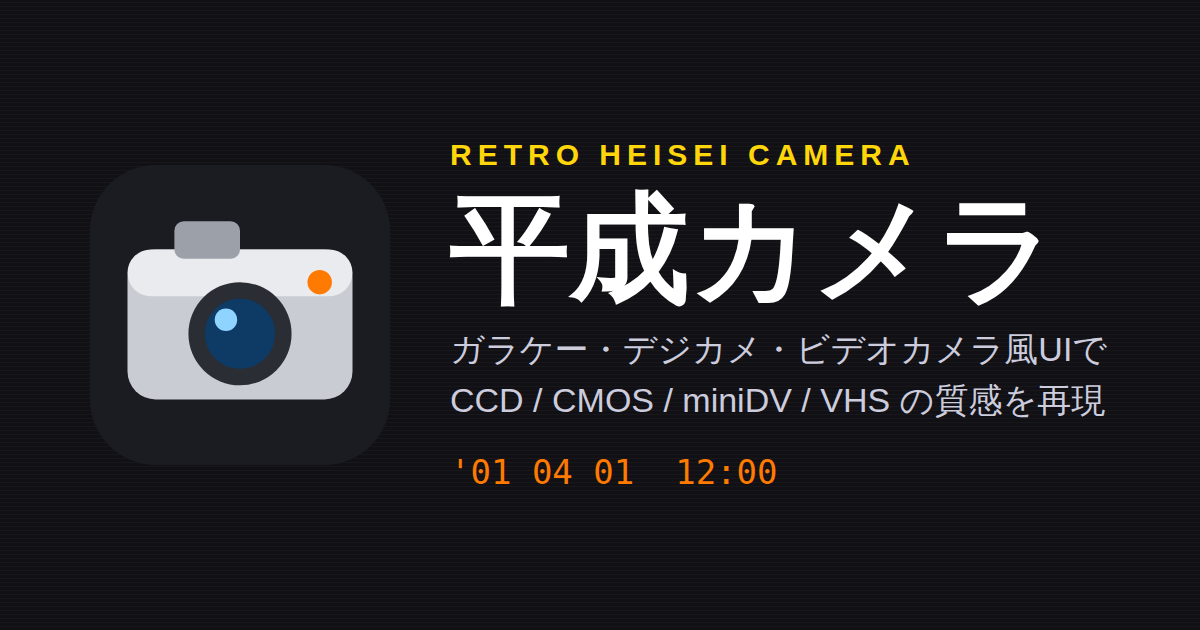
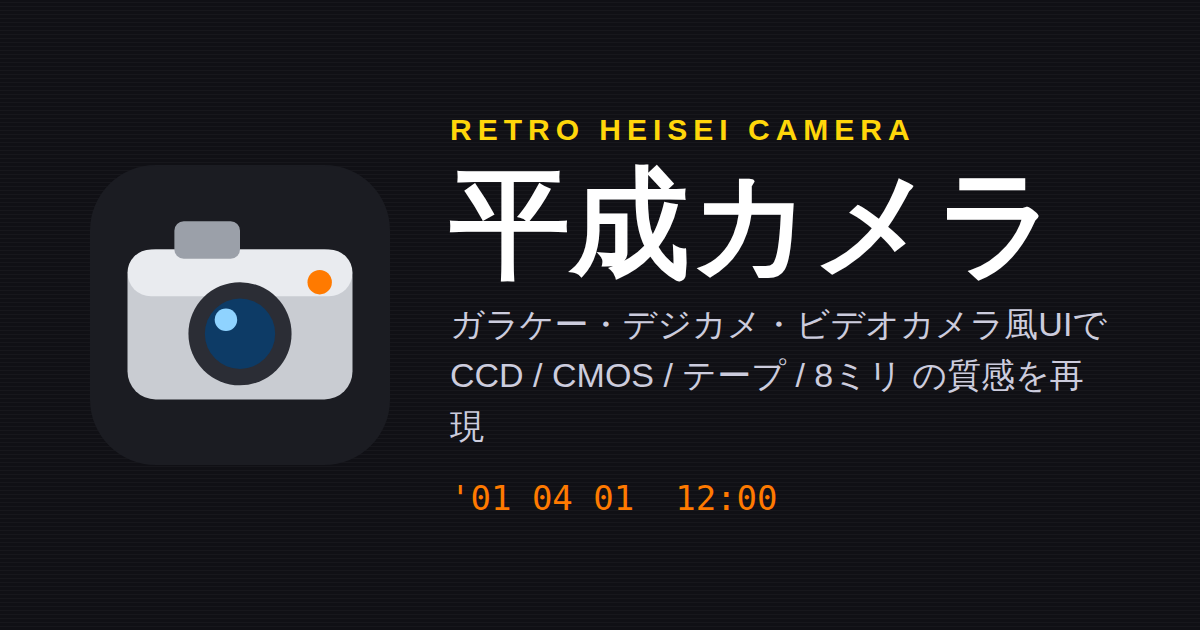
規格・商標に近い名称を一般的な呼び名に変更 (v3.0.2) (#4)
Claude-Session: https://claude.ai/code/session_01LxmgezsTNbVswLk6y5BKSK

Changed region(s): [[0.37, 0.181, 0.925, 0.6937], [0.37, 0.7238, 0.5242, 0.8143], [0.555, 0.7238, 0.6475, 0.8143]]

diff --git a/index.html b/index.html
@@ -4,9 +4,9 @@
 <meta charset="UTF-8">
 <meta name="viewport" content="width=device-width,initial-scale=1,viewport-fit=cover,user-scalable=no">
 <meta name="theme-color" content="#000000">
-<title>平成カメラ | ガラケー・デジカメ・VHS風のレトロカメラ(CCD/CMOS/miniDV再現)</title>
-<meta name="description" content="平成カメラは、ガラケー・コンデジ・ビデオカメラ風UIで、CCD・CMOSセンサーやminiDV・VHS・8ミリの質感を再現するブラウザ向けレトロカメラ。シャッター音や日付写し込み、テープ風ノイズ録音にも対応。インストール不要、無料。">
-<meta name="keywords" content="平成カメラ,レトロカメラ,ガラケー,デジカメ,CCD,CMOS,miniDV,VHS,8ミリ,エモい,写ルンです風,平成レトロ,Y2K">
+<title>平成カメラ | ガラケー・デジカメ・ビデオテープ風のレトロカメラ(CCD/CMOS再現)</title>
+<meta name="description" content="平成カメラは、ガラケー・コンデジ・ビデオカメラ風UIで、CCD・CMOSセンサーやデジタルテープ・アナログテープ・8ミリフィルムの質感を再現するブラウザ向けレトロカメラ。シャッター音や日付写し込み、テープ風ノイズ録音にも対応。インストール不要、無料。">
+<meta name="keywords" content="平成カメラ,レトロカメラ,ガラケー,デジカメ,CCD,CMOS,ビデオテープ,8ミリ,エモい,平成レトロ,Y2K">
 <meta name="author" content="higashiikenaga">
 <meta name="robots" content="index,follow,max-image-preview:large">
 <link rel="canonical" href="https://higashiikenaga.github.io/heisei_camera/">
@@ -24,8 +24,8 @@
 <!-- OGP -->
 <meta property="og:type" content="website">
 <meta property="og:site_name" content="平成カメラ">
-<meta property="og:title" content="平成カメラ | ガラケー・デジカメ・VHS風のレトロカメラ">
-<meta property="og:description" content="CCD・CMOS・miniDV・VHS・8ミリの質感を再現。ガラケー/デジカメ/ビデオカメラ風UIで撮れるブラウザ向けレトロカメラ。">
+<meta property="og:title" content="平成カメラ | ガラケー・デジカメ・ビデオテープ風のレトロカメラ">
+<meta property="og:description" content="CCD・CMOS・デジタルテープ・アナログテープ・8ミリフィルムの質感を再現。ガラケー/デジカメ/ビデオカメラ風UIで撮れるブラウザ向けレトロカメラ。">
 <meta property="og:url" content="https://higashiikenaga.github.io/heisei_camera/">
 <meta property="og:image" content="https://higashiikenaga.github.io/heisei_camera/og-image.png">
 <meta property="og:image:width" content="1200">
@@ -33,12 +33,12 @@
 <meta property="og:image:alt" content="平成カメラ ロゴとキャッチコピー">
 <meta property="og:locale" content="ja_JP">
 <meta name="twitter:card" content="summary_large_image">
-<meta name="twitter:title" content="平成カメラ | ガラケー・デジカメ・VHS風のレトロカメラ">
-<meta name="twitter:description" content="CCD・CMOS・miniDV・VHS・8ミリの質感を再現するブラウザ向けレトロカメラ。">
+<meta name="twitter:title" content="平成カメラ | ガラケー・デジカメ・ビデオテープ風のレトロカメラ">
+<meta name="twitter:description" content="CCD・CMOS・テープ・8ミリフィルムの質感を再現するブラウザ向けレトロカメラ。">
 <meta name="twitter:image" content="https://higashiikenaga.github.io/heisei_camera/og-image.png">
 
 <script type="application/ld+json">
-{"@context":"https://schema.org","@type":"WebApplication","name":"平成カメラ","url":"https://higashiikenaga.github.io/heisei_camera/","description":"ガラケー・デジカメ・ビデオカメラ風UIでCCD/CMOS/miniDV/VHSの質感を再現するブラウザ向けレトロカメラ","applicationCategory":"MultimediaApplication","operatingSystem":"Any (Web browser)","inLanguage":"ja","image":"https://higashiikenaga.github.io/heisei_camera/og-image.png","offers":{"@type":"Offer","price":"0","priceCurrency":"JPY"},"author":{"@type":"Person","name":"higashiikenaga","url":"https://github.com/higashiikenaga"}}
+{"@context":"https://schema.org","@type":"WebApplication","name":"平成カメラ","url":"https://higashiikenaga.github.io/heisei_camera/","description":"ガラケー・デジカメ・ビデオカメラ風UIでCCD/CMOS/テープ/8ミリの質感を再現するブラウザ向けレトロカメラ","applicationCategory":"MultimediaApplication","operatingSystem":"Any (Web browser)","inLanguage":"ja","image":"https://higashiikenaga.github.io/heisei_camera/og-image.png","offers":{"@type":"Offer","price":"0","priceCurrency":"JPY"},"author":{"@type":"Person","name":"higashiikenaga","url":"https://github.com/higashiikenaga"}}
 </script>
 <link href="https://fonts.googleapis.com/css2?family=Orbitron:wght@400;700&family=Press+Start+2P&display=swap" rel="stylesheet">
 
@@ -297,8 +297,8 @@ body.recording #dpad #shutterG{background:var(--rec);}
       <optgroup label="デジカメ・ビデオカメラ風">
         <option value="c1">デジカメ シルバー</option>
         <option value="c2">デジカメ ブラック</option>
-        <option value="v1">ビデオカメラ miniDV</option>
-        <option value="v2">ビデオカメラ VHS-C</option>
+        <option value="v1">ビデオカメラ デジタルテープ</option>
+        <option value="v2">ビデオカメラ アナログテープ</option>
       </optgroup>
     </select></div>
   <div class="set"><span>ノイズ・劣化量</span><input type="range" id="tape" min="0" max="100" value="45"></div>
@@ -331,9 +331,9 @@ const low=document.createElement("canvas"),lctx=low.getContext("2d",{willReadFre
 const LOOKS={
   ccd:{name:"CCD",label:"CCD コンデジ(2002)",fps:24},
   cmos:{name:"CMOS",label:"CMOS ケータイ(2008)",fps:24},
-  "8mm":{name:"8mm",label:"8ミリビデオ",fps:12},
-  vhs:{name:"VHS",label:"VHS ホームビデオ",fps:15},
-  dv:{name:"miniDV",label:"miniDV ハンディカム",fps:30,hiss:.35}
+  "8mm":{name:"8ミリ風",label:"8ミリフィルム風",fps:12},
+  vhs:{name:"アナログテープ",label:"アナログテープ(ホームビデオ風)",fps:15},
+  dv:{name:"デジタルテープ",label:"デジタルテープ(ハンディ型風)",fps:30,hiss:.35}
 };
 LOOKS.ccd.hiss=.5;LOOKS.cmos.hiss=.4;LOOKS["8mm"].hiss=1.2;LOOKS.vhs.hiss=1;
 let look="ccd",kind="photo",facing="environment",zoom=1,recording=false;
@@ -432,7 +432,7 @@ let prevCol=null,smear=null,skew=0,vigTab=null;
 window.addEventListener("resize",fitCanvas);
 if(window.ResizeObserver)new ResizeObserver(()=>fitCanvas()).observe($("vf"));
 
-/* ================= miniDV : WebGL シェーダー ================= */
+/* ================= デジタルテープ風 : WebGL シェーダー ================= */
 // 4:2:0 クロマサブサンプリング(2x2で色を共有)＋横方向の色にじみ＋DCTブロック風の量子化、
 // さらに数フレームだけ発生するデジタルバグ(マクロブロック欠落/固着/色ズレ)。
 const DV_VS=`attribute vec2 p;varying vec2 v;void main(){v=p*.5+.5;gl_Position=vec4(p,0.,1.);}`;
@@ -831,8 +831,8 @@ const SKINS={
   g3:{k:"g",look:"cmos",brand:"✦ HEISEI ✦ pretty cam"},
   c1:{k:"c",look:"ccd",brand:"HEISEI DIGITAL  3.2 MEGA PIXELS"},
   c2:{k:"c",look:"ccd",brand:"HEISEI ZOOM 10x  5.0MP"},
-  v1:{k:"v",look:"dv",brand:"HEISEI miniDV  DIGITAL VIDEO"},
-  v2:{k:"v",look:"vhs",brand:"HEISEI VHS-C  CAMCORDER"}
+  v1:{k:"v",look:"dv",brand:"HEISEI DIGITAL TAPE CAM"},
+  v2:{k:"v",look:"vhs",brand:"HEISEI ANALOG TAPE CAM"}
 };
 let skin="g1";
 const looksEl=$("looks");
@@ -938,20 +938,21 @@ function openPreview(){
 $("pvClose").onclick=()=>{$("preview").classList.remove("open");$("pvBody").innerHTML="";};
 
 /* ================= 情報・更新履歴 ================= */
-const APP_VERSION="3.0.1";
+const APP_VERSION="3.0.2";
 const CONTACT={
   github:"https://github.com/higashiikenaga/heisei_camera",
   githubLabel:"github.com/higashiikenaga/heisei_camera",
   email:"sanyokai05@gmail.com"
 };
 const HISTORY=[
+  ["3.0.2","2026-10-03","特定の規格・商標に近い名称を「デジタルテープ」「アナログテープ」などの一般的な呼び名に変更"],
   ["3.0.1","2026-10-03","OGP・SEO設定、ファビコン、PWAマニフェストを追加(SNSでリンクを共有したときのプレビュー画像に対応)"],
-  ["3.0.0","2026-10-03","よく考えたら平成カメラなのに令和の最新スマートフォン風デザインはおかしいので、デザインを刷新。ガラケー風(ブラック折りたたみ/シルバー/ピンク)3種と、デジカメ(シルバー/ブラック)・ビデオカメラ(miniDV/VHS-C)風4種の計7種から選べるように(設定→デザイン)。十字キー・テンキーでの操作、PCのキーボード操作にも対応"],
+  ["3.0.0","2026-10-03","よく考えたら平成カメラなのに令和の最新スマートフォン風デザインはおかしいので、デザインを刷新。ガラケー風(ブラック折りたたみ/シルバー/ピンク)3種と、デジカメ(シルバー/ブラック)・ビデオカメラ(デジタルテープ/アナログテープ)風4種の計7種から選べるように(設定→デザイン)。十字キー・テンキーでの操作、PCのキーボード操作にも対応"],
   ["2.3.0","2026-10-03","「全画面」比率を追加し、縦長スマホ(自動選択)やPCの横長画面にぴったり合うように。PCではウィンドウいっぱいに表示。更新履歴に日付を追加"],
   ["2.2.0","2026-10-03","撮影比率(16:9 / 4:3 / 1:1)を選べるように。カメラ映像をほぼ全画面で表示するUIに刷新。作者メールアドレスを追加"],
-  ["2.1.0","2026-10-03","miniDVルック(WebGLシェーダーによる4:2:0風の色にじみ)、数フレームだけ出るデジタルバグ(ブロックノイズ)、録音へのテープ風ホワイトノイズ合成を追加"],
+  ["2.1.0","2026-10-03","デジタルテープ風ルック(WebGLシェーダーによる4:2:0風の色にじみ)、数フレームだけ出るデジタルバグ(ブロックノイズ)、録音へのテープ風ホワイトノイズ合成を追加"],
   ["2.0.0","2026-10-03","UIをモバイルカメラ風に刷新。CCD/CMOSセンサーの質感(スミア・ローリングシャッター等)を再現。シャッター音と録画開始/停止の「ピッ」音を追加"],
-  ["1.0.0","2025-10-12","初版公開(一眼風・コンデジ風・8ミリ風・VHS風、写真撮影と録画)"]
+  ["1.0.0","2025-10-12","初版公開(一眼風・コンデジ風・8ミリ風・アナログテープ風、写真撮影と録画)"]
 ];
 $("aboutVer").textContent="Version "+APP_VERSION;
 $("aboutLog").innerHTML=HISTORY.map(h=>`<li><b>v${h[0]} <small style="color:#999;font-weight:400">${h[1]}</small></b><span>${h[2]}</span></li>`).join("");
